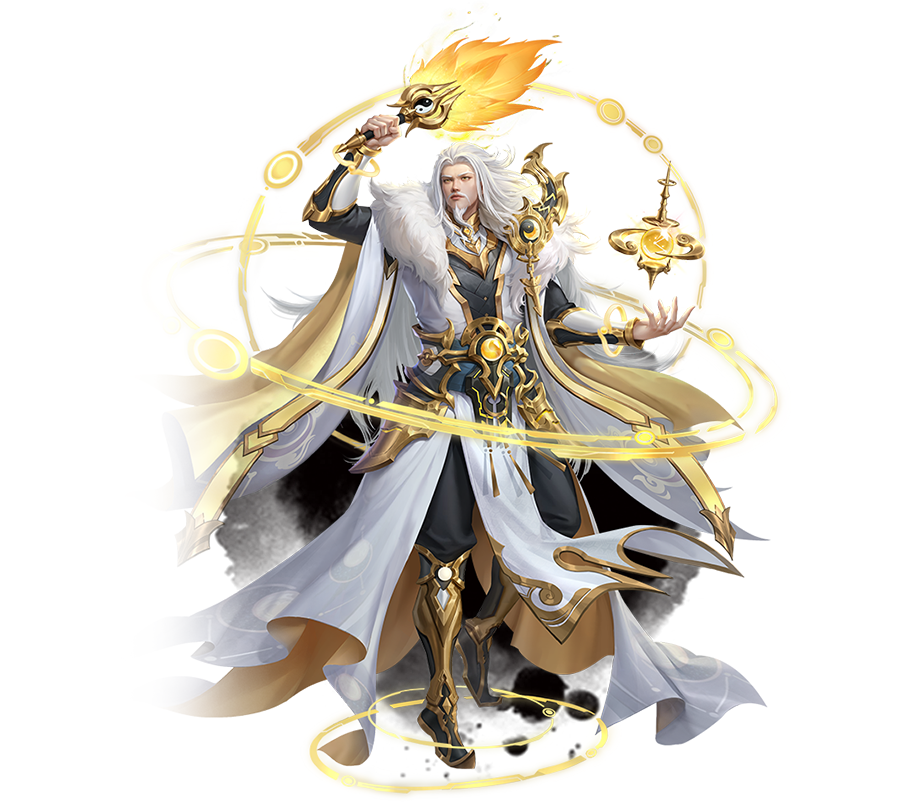
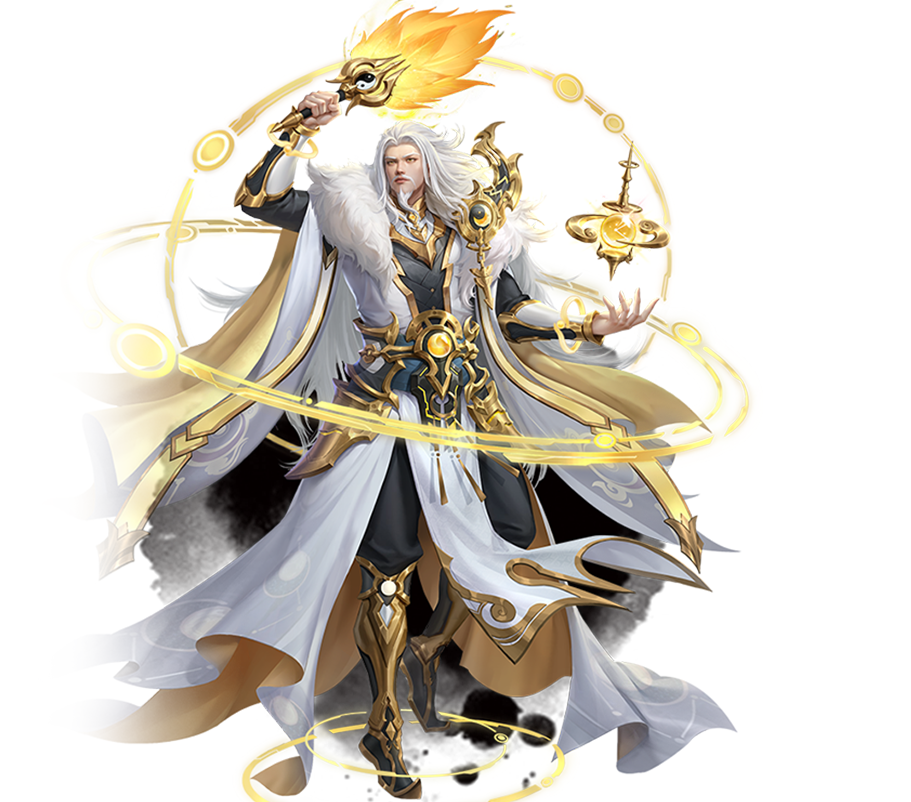
change chars

diff --git a/src/apis/mock-data.js b/src/apis/mock-data.js
@@ -2,25 +2,25 @@ export const mockData = {
     selection:[
         {
             _id:'char-id-1',
-            name: 'Tào Tháo',
+            name: 'Gia Cát Lượng',
             class: 'Ngô',
-            description: '[TAO THAO] Tuyệt sắc giai nhân. Dùng sắc đẹp và tài năng khéo léo của mình, Điêu Thuyền đã làm cho bánh xe lịch sử phải đổi hướng. Nàng làm theo sắp xếp của Vương Doãn, trở thành thê thiếp của Lữ Bố, Đổng Trác bị Lữ Bố giết vì giành giật nàng.',
+            description: '[GIA CAT LUONG] Tuyệt sắc giai nhân. Dùng sắc đẹp và tài năng khéo léo của mình, Điêu Thuyền đã làm cho bánh xe lịch sử phải đổi hướng. Nàng làm theo sắp xếp của Vương Doãn, trở thành thê thiếp của Lữ Bố, Đổng Trác bị Lữ Bố giết vì giành giật nàng.',
             classImg: './src/assets/img/Ngo.png',
-            selectImg: './src/assets/img/TT-select.png',
-            offImg: './src/assets/img/TT-off.png',
+            selectImg: './src/assets/img/GiaCatLuong-select.png',
+            offImg: './src/assets/img/GiaCatLuong-off.png',
             fullBodyImg: './src/assets/img/GiaCatLuong.png',
-            shadowImg: './src/assets/img/GiaCatLuong-shadow.png'
+            shadowImg: './src/assets/img/GiaCatLuong-shadow-1.png'
         },
         {
             _id:'char-id-2',
-            name: 'Tôn Kiên',
+            name: 'Quách Gia',
             class: 'Thục',
-            description: '[TON KIEN] Tuyệt sắc giai nhân. Dùng sắc đẹp và tài năng khéo léo của mình, Điêu Thuyền đã làm cho bánh xe lịch sử phải đổi hướng. Nàng làm theo sắp xếp của Vương Doãn, trở thành thê thiếp của Lữ Bố, Đổng Trác bị Lữ Bố giết vì giành giật nàng.',
+            description: '[QUACH GIA] Tuyệt sắc giai nhân. Dùng sắc đẹp và tài năng khéo léo của mình, Điêu Thuyền đã làm cho bánh xe lịch sử phải đổi hướng. Nàng làm theo sắp xếp của Vương Doãn, trở thành thê thiếp của Lữ Bố, Đổng Trác bị Lữ Bố giết vì giành giật nàng.',
             classImg: './src/assets/img/Thuc.png',
-            selectImg: './src/assets/img/TK-select.png',
-            offImg: './src/assets/img/TK-off.png',
-            fullBodyImg: './src/assets/img/LuBo.png',
-            shadowImg: './src/assets/img/LuBo-shadow.png'
+            selectImg: './src/assets/img/QuachGia-select.png',
+            offImg: './src/assets/img/QuachGia-off.png',
+            fullBodyImg: './src/assets/img/QuachGia.png',
+            shadowImg: './src/assets/img/QuachGia-shadow-1.png'
         },
         {
             _id:'char-id-3',
@@ -28,21 +28,21 @@ export const mockData = {
             class: 'Ngô',
             description: '[QUAN VU] Tuyệt sắc giai nhân. Dùng sắc đẹp và tài năng khéo léo của mình, Điêu Thuyền đã làm cho bánh xe lịch sử phải đổi hướng. Nàng làm theo sắp xếp của Vương Doãn, trở thành thê thiếp của Lữ Bố, Đổng Trác bị Lữ Bố giết vì giành giật nàng.',
             classImg: './src/assets/img/Ngo.png',
-            selectImg: './src/assets/img/qv-select.png',
-            offImg: './src/assets/img/qv-off.png',
-            fullBodyImg: './src/assets/img/TieuKieu.png',
-            shadowImg: './src/assets/img/TieuKieu-shadow.png'
+            selectImg: './src/assets/img/QuanVu-select.png',
+            offImg: './src/assets/img/QuanVu-off.png',
+            fullBodyImg: './src/assets/img/QuanVu.png',
+            shadowImg: './src/assets/img/QuanVu-shadow-1.png'
         },
         {
             _id:'char-id-4',
-            name: 'Điêu Thuyền',
+            name: 'Tiểu Kiều',
             class: 'Ngô',
-            description: '[DIEU THUYEN] Tuyệt sắc giai nhân. Dùng sắc đẹp và tài năng khéo léo của mình, Điêu Thuyền đã làm cho bánh xe lịch sử phải đổi hướng. Nàng làm theo sắp xếp của Vương Doãn, trở thành thê thiếp của Lữ Bố, Đổng Trác bị Lữ Bố giết vì giành giật nàng.',
+            description: '[TIEU KIEU] Tuyệt sắc giai nhân. Dùng sắc đẹp và tài năng khéo léo của mình, Điêu Thuyền đã làm cho bánh xe lịch sử phải đổi hướng. Nàng làm theo sắp xếp của Vương Doãn, trở thành thê thiếp của Lữ Bố, Đổng Trác bị Lữ Bố giết vì giành giật nàng.',
             classImg: './src/assets/img/Ngo.png',
-            selectImg: './src/assets/img/DT-select.png',
-            offImg: './src/assets/img/DT-off.png',
-            fullBodyImg: './src/assets/img/QuachGia.png',
-            shadowImg: './src/assets/img/QuachGia-shadow.png'
+            selectImg: './src/assets/img/TieuKieu-select.png',
+            offImg: './src/assets/img/TieuKieu-off.png',
+            fullBodyImg: './src/assets/img/TieuKieu.png',
+            shadowImg: './src/assets/img/TieuKieu-shadow-1.png'
         },
         {
             _id:'char-id-5',
@@ -50,10 +50,21 @@ export const mockData = {
             class: 'Ngô',
             description: '[LU BO] Tuyệt sắc giai nhân. Dùng sắc đẹp và tài năng khéo léo của mình, Điêu Thuyền đã làm cho bánh xe lịch sử phải đổi hướng. Nàng làm theo sắp xếp của Vương Doãn, trở thành thê thiếp của Lữ Bố, Đổng Trác bị Lữ Bố giết vì giành giật nàng.',
             classImg: './src/assets/img/Ngo.png',
-            selectImg: './src/assets/img/LB-select.png',
-            offImg: './src/assets/img/LB-off.png',
-            fullBodyImg: './src/assets/img/lu-bo.png',
-            shadowImg: './src/assets/img/LB-shadow-1.png'
+            selectImg: './src/assets/img/LuBo-select.png',
+            offImg: './src/assets/img/LuBo-off.png',
+            fullBodyImg: './src/assets/img/LuBo.png',
+            shadowImg: './src/assets/img/LuBo-shadow-1.png'
+        },
+        {
+            _id:'char-id-6',
+            name: 'Ngộ Không',
+            class: 'Ngô',
+            description: '[NGO KHONG] Tuyệt sắc giai nhân. Dùng sắc đẹp và tài năng khéo léo của mình, Điêu Thuyền đã làm cho bánh xe lịch sử phải đổi hướng. Nàng làm theo sắp xếp của Vương Doãn, trở thành thê thiếp của Lữ Bố, Đổng Trác bị Lữ Bố giết vì giành giật nàng.',
+            classImg: './src/assets/img/Ngo.png',
+            selectImg: './src/assets/img/NgoKhong-select.png',
+            offImg: './src/assets/img/NgoKhong-off.png',
+            fullBodyImg: './src/assets/img/NgoKhong.png',
+            shadowImg: './src/assets/img/NgoKhong-shadow-1.png'
         },
     ]
 }

diff --git a/src/component/Selection.jsx b/src/component/Selection.jsx
@@ -35,18 +35,18 @@ function Selection() {
     }
     return (
         <div className='w-full pb-28 relative'>
-            <div className='char-shadow absolute top-[48px]   right-[80px] -z-10'>
+            <div className='char-shadow absolute top-[48px] right-0 -z-10'>
                 <img loading='lazy' src={currentActiveChar.shadowImg} />
             </div>
             <div className=' w-full absolute -bottom-[2px]'>
                 <img loading='lazy' src='./src/assets/img/UI-bottom-pg3.png' />
             </div>
-            <div className='title py-12 pt-16'>
+            <div className='title pb-[80px] pt-16'>
                 <img loading='lazy' className='mx-auto' src='./src/assets/img/title-section3.png' />
             </div>
 
             <div className=' flex w-[80%] mx-auto'>
-                <div className='left w-[50%] px-24 flex flex-col gap-16 items-center'>
+                <div className='left w-[50%] flex flex-col gap-4 items-center'>
                     <div className='char-info w-[500px] relative flex flex-col text-black'>
                         <div className='text-[3rem] relative py-6'>
                             THẦN - {currentActiveChar.name}
@@ -62,19 +62,19 @@ function Selection() {
 
                     </div>
                     <div className='selection'>
-                        <div className='wrapper  w-[500px] mx-auto relative '>
-                            <img loading='lazy' className='absolute w-full object-cover z-0 h-full top-0 right-0 scale-x-[1.12] scale-y-[.8]' src='./src/assets/img/light.png' />
-                            <div className='clickable grid grid-cols-5 absolute'>
+                        <div className='wrapper relative '>
+                            {/* <img loading='lazy' className='absolute w-full object-cover z-0 h-full top-0 right-0 scale-x-[1.12] scale-y-[.8]' src='./src/assets/img/light.png' /> */}
+                            <div className='clickable grid grid-cols-6 w-full absolute'>
                                 {characters.map((char, index) => {
                                     return (
                                         <div key={char._id} onClick={() => {
                                             const findChar = getCharById(char._id)
                                             setCurrentActiveChar(findChar)
-                                        }} className='w-[100px] h-[430px] cursor-pointer'></div>
+                                        }} className='w-full h-[430px] cursor-pointer'></div>
                                     )
                                 })}
                             </div>
-                            <div className='background grid grid-cols-5'>
+                            <div className='background grid grid-cols-6'>
                                 {characters.map((char, index) => {
                                     const isActive = char._id === currentActiveChar._id
                                     return (
@@ -95,10 +95,10 @@ function Selection() {
                     </div>
                 </div>
                 <div className='right flex-1 relative'>
-                    <div className='mx-auto'>
+                    <div className='pt-[24px]'>
                         <img loading='lazy' className='w-full h-full object-cover' src={currentActiveChar.fullBodyImg} />
                     </div>
-                    <div className='class absolute top-0 -right-[100px] z-10 scale-90 '>
+                    <div className='class absolute -top-[30px] -right-[40px] z-10 scale-90 '>
                         <img loading='lazy' src={currentActiveChar.classImg} />
                     </div>
 

diff --git a/src/component/SliderStory.jsx b/src/component/SliderStory.jsx
@@ -5,25 +5,67 @@ import Slider from 'react-slick'
 
 function SliderStory() {
     const sliderData = [...Array(7)]
-    const [currentSlideIndex, setCurrentSlideIndex] = useState(0)
-    const slider = useRef(null)
-    const settings = {
-        dots: false,
-        fade: true,
-        infinite: true,
-        speed: 500,
-        arrows: false,
-        slidesToShow: 1,
-        slidesToScroll: 1,
-        waitForAnimate: false,
-        beforeChange: (currentIndex, nextIndex) => {
-            setCurrentSlideIndex(nextIndex)
-        }
+    // const [currentSlideIndex, setCurrentSlideIndex] = useState(0)
+    // const slider = useRef(null)
+    // const settings = {
+    //     dots: false,
+    //     fade: true,
+    //     infinite: true,
+    //     speed: 500,
+    //     arrows: false,
+    //     slidesToShow: 1,
+    //     slidesToScroll: 1,
+    //     waitForAnimate: false,
+    //     beforeChange: (currentIndex, nextIndex) => {
+    //         setCurrentSlideIndex(nextIndex)
+    //     }
 
-    };
+    // };
     return (
-        <div className='slider'>
-            <div className='wrapper ml-8'>
+        <div className='slider px-[80px] h-full'>
+            <swiper-container
+                class="mySwiper " effect="coverflow" grab-cursor="true" centered-slides="true"
+                slides-per-view="auto" coverflow-effect-stretch="0" coverflow-effect-depth="300" coverflow-effect-rotate="0"
+                coverflow-effect-modifier="1" coverflow-effect-slide-shadows="true"
+                navigation-next-el='.next-btn'
+                navigation-prev-el='.prev-btn'
+                pagination-el='pagination'
+            >
+                <swiper-slide lazy="true">
+                    <img className='mx-auto object-cover' loading="lazy" src='./src/assets/img/slider-1.png' />
+                </swiper-slide>
+                <swiper-slide lazy="true">
+                    <img className='mx-auto object-cover' loading="lazy" src='./src/assets/img/slider-2.png' />
+                </swiper-slide>
+                <swiper-slide lazy="true">
+                    <img className='mx-auto object-cover' loading="lazy" src='./src/assets/img/slider-3.png' />
+                </swiper-slide>
+                <swiper-slide lazy="true">
+                    <img className='mx-auto object-cover' loading="lazy" src='./src/assets/img/slider-4.png' />
+                </swiper-slide>
+                <swiper-slide lazy="true">
+                    <img className='mx-auto object-cover' loading="lazy" src='./src/assets/img/slider-5.png' />
+                </swiper-slide>
+            </swiper-container>
+            <div className='control'>
+                <div className='prev-btn absolute top-1/2 left-6 cursor-pointer'>
+                    <img loading='lazy' src='./src/assets/img/prev-slider.png' />
+                </div>
+                <div className='next-btn absolute top-1/2 right-6 cursor-pointer'>
+                    <img loading='lazy' src='./src/assets/img/next-slide.png' />
+                </div>
+            </div>
+            <div className='pagination'>
+
+            </div>
+        </div>
+    )
+}
+
+export default SliderStory
+
+
+{/* <div className='wrapper ml-8'>
                 <Slider ref={slider}  {...settings}>
                     {sliderData.map((slide, index) => {
                         return (
@@ -52,9 +94,4 @@ function SliderStory() {
                         </div>
                     )
                 })}
-            </div>
-        </div>
-    )
-}
-
-export default SliderStory
+            </div> */}

diff --git a/src/component/LandingPage.jsx b/src/component/LandingPage.jsx
@@ -44,7 +44,7 @@ function LandingPage() {
                         </div> */}
                     </section>
                     <section ref={registrationRef} id='Registration' className='2 relative h-[1065px] pt-[36px]'>
-                        {/* <img loading='lazy' className='absolute -top-10 object-cover' src='./src/assets/img/la cay.png' /> */}
+                        <img loading='lazy' className='absolute -top-10 object-cover' src='./src/assets/img/la cay.png' />
                         <div className='title'>
                             <img loading='lazy' className='mx-auto pl-[80px]' src='./src/assets/img/title-section2.png' />
                         </div>
@@ -62,10 +62,13 @@ function LandingPage() {
                     </section>
                     <section ref={sliderStoryRef} id='SliderStory' className='4 relative border-none'>
                         <div className='background'>
-                            <img loading='lazy' className='w-full object-cover' src='./src/assets/img/BG-pg4.png' />
+                            <img loading='lazy' className='w-full object-cover' src='./src/assets/img/bg-section4.png' />
                         </div>
-                        <div className='content absolute top-0 w-full'>
-                            <div className='w-[900px] h-[500px] mt-[320px] relative mx-auto'>
+                        <div className='title absolute top-0 left-1/2 -translate-x-1/2'>
+                            <img loading='lazy' className='mx-auto pl-[80px]' src='./src/assets/img/title-section4.png' />
+                        </div>
+                        <div className='content absolute top-[215px] left-[266px]'>
+                            <div className='w-[1430px] h-[710px] py-[34px] relative '>
                                 <SliderStory />
                             </div>
                         </div>

diff --git a/src/index.css b/src/index.css
@@ -59,19 +59,15 @@ body {
 
 }
 
-/* .đã_có__________________________Chân_Vương_đăng_ {
-  font-size: 200px;
-  font-family: "League Gothic";
-  color: rgb(255, 255, 255);
-  text-transform: uppercase;
-  line-height: 1.2;
-  text-align: right;
-  text-shadow: 0px 3px 0px rgba(141, 83, 0, ),0px 4px 0px rgba(246, 173, 11, ),0px 3px 5.5px rgba(0, 0, 0, );
-  -moz-transform: matrix( 0.19553730790157,0,-0.02387711409172,0.19553730790157,0,0);
-  -webkit-transform: matrix( 0.19553730790157,0,-0.02387711409172,0.19553730790157,0,0);
-  -ms-transform: matrix( 0.19553730790157,0,-0.02387711409172,0.19553730790157,0,0);
-  position: absolute;
-  left: -397.447px;
-  top: 1251.5px;
-  z-index: 301;
-} */
+swiper-container {
+
+}
+
+swiper-slide {
+  color: #fff;
+  font-size: 25px;
+  margin: auto;
+  width: 1145px;
+  height: 100%;
+}
+
